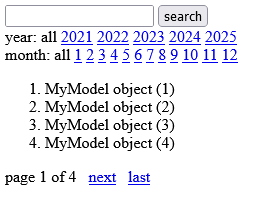
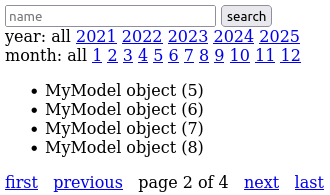
update example image, use external link in README so it also works on pypi, remove documentation from setup

diff --git a/setup.py b/setup.py
@@ -13,7 +13,7 @@ with open('README.md', 'r') as readme:
 
 setuptools.setup(
     name='django-minifilter',
-    version='0.0.3',
+    version='0.0.4',
     author='dennisvang',
     author_email='djvg@protonmail.com',
     description='Minimal filter and search functionality for django list views.',
@@ -28,7 +28,7 @@ setuptools.setup(
     url='https://github.com/dennisvang/django-minifilter',
     packages=setuptools.find_packages(
         include=['minifilter*'], exclude=['tests']),
-    package_data={'minifilter': ['templates/*/*/*', 'documentation/*']},
+    package_data={'minifilter': ['templates/*/*/*']},
     install_requires=['django==3.*'],
     python_requires='>=3.7',
 )

diff --git a/README.md b/README.md
@@ -6,11 +6,11 @@ The django-minifilter package provides minimal filter functionality for list vie
 
 - filter links
 
-The result is compatible with django's pagination.
+The package is compatible with django's pagination.
 
-Here's an example of a very basic list-view:
+Here's an example of a very basic list-view, showing a search box that filters by name, and links that filter by year and month:
 
-![example](documentation/example.png "example")
+![basic example of filtered list view](https://raw.githubusercontent.com/dennisvang/django-minifilter/a0ceeddc9a7561a68805b135b86ed974de0f175e/documentation/example.png "simple example")
 
 # Installation
 
